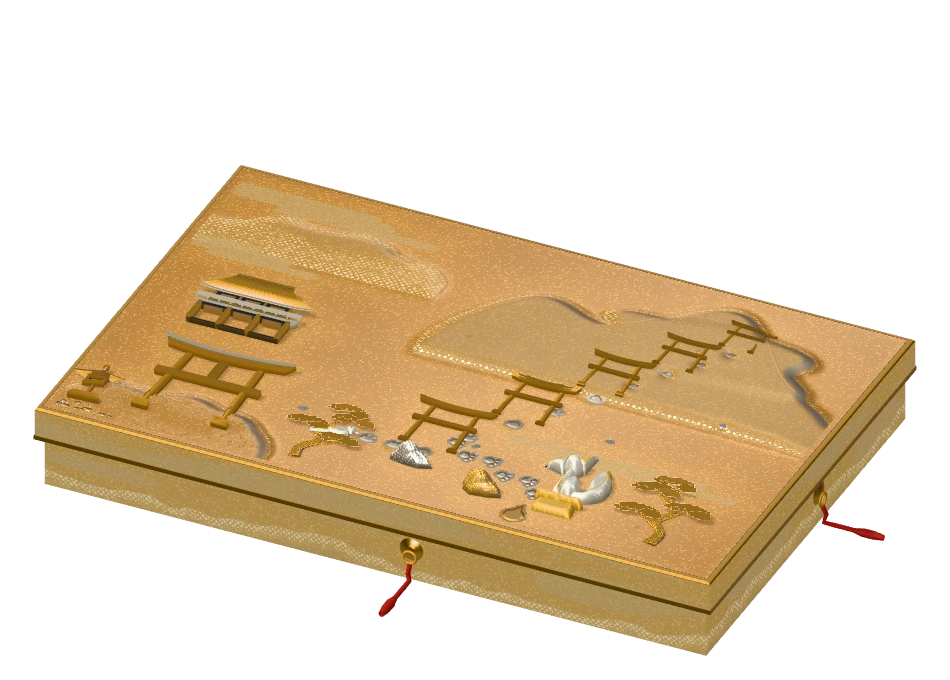
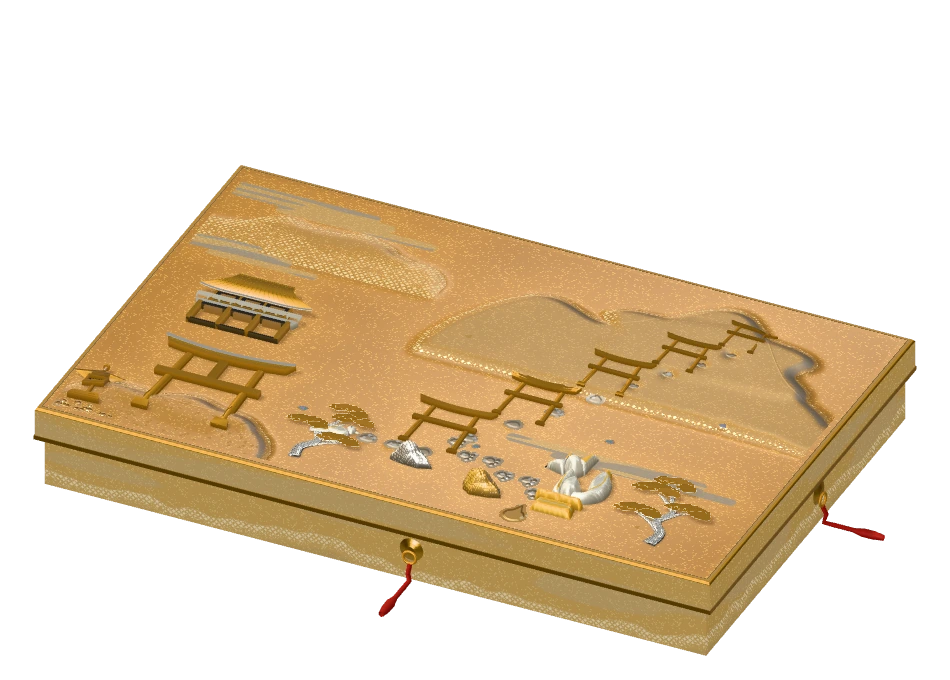
feat(plate): silver wood under gold foliage, silver strips in the mist
Compared with the Tokugawa Art Museum photo of the Hatsune writing box:
grey silver carries the shade and separates one thing from the next.
- Trunks and limbs of gold-leaved trees are silver (oxidized in shade,
  pale where lit, cut silver on top); the silver-flowering cherry keeps
  gold wood.
- Mist bands carry long thin strips of grey silver.
- Static fallback pictures reshot.

diff --git a/src/studies/toji/plate/three-renderer.js b/src/studies/toji/plate/three-renderer.js
@@ -207,7 +207,9 @@ roughnessFactor = mix(roughnessFactor, mix(K_KIRI_ROUGH, K_KIRI_ROUGH_NIGHT, uNi
     return material;
   };
   const patchLimbMaterial = (material, spec) => {
-    material.customProgramCacheKey = () => `kyoto-limb-${spec.glow ? 1 : 0}-kiri-v1`;
+    // Wood is silver where the foliage is gold (Hatsune); a tree that flowers in silver keeps gold wood.
+    const silver = spec.name === 'silver', foil = silver ? 'K_ROCK_FOIL_SILVER' : 'K_KIRI_GOLD';
+    material.customProgramCacheKey = () => `kyoto-limb-${spec.glow ? 1 : 0}-${silver ? 's' : 'g'}-kiri-v2`;
     material.onBeforeCompile = shader => {
       bindGlow(shader, spec);
       shader.vertexShader = shader.vertexShader
@@ -227,12 +229,12 @@ vec3 kyotoTrunkNW = inverseTransformDirection(normalize(vNormal), viewMatrix);
 float kyotoTrunkLit = smoothstep(K_TRUNK_LIT_LO, K_TRUNK_LIT_HI, dot(kyotoTrunkNW, normalize(uKey)));
 vec2 kyotoTrunkTilt;
 float kyotoTrunkKiri = kyotoKiriPattern(vTreeUv, K_TRUNK_KIRI_CELL, kyotoTrunkLit, uPx, kyotoTrunkTilt) * (1. - kyotoBark * K_TRUNK_BARK_MASK);
-diffuseColor.rgb = mix(diffuseColor.rgb, K_M_OXID * K_TRUNK_OXID_SCALE, (1. - kyotoTrunkLit) * K_TRUNK_OXID_STRENGTH);
+diffuseColor.rgb = ${silver ? 'mix(K_TRUNK_SILVER_SHADE, K_TRUNK_SILVER_LIT, kyotoTrunkLit)' : 'mix(diffuseColor.rgb, K_M_OXID * K_TRUNK_OXID_SCALE, (1. - kyotoTrunkLit) * K_TRUNK_OXID_STRENGTH)'};
 diffuseColor.rgb *= 1. - kyotoBark * .45;
-diffuseColor.rgb = mix(diffuseColor.rgb, K_KIRI_GOLD, kyotoTrunkKiri * K_TRUNK_KIRI_COVER);`)
+diffuseColor.rgb = mix(diffuseColor.rgb, ${foil}, kyotoTrunkKiri * K_TRUNK_KIRI_COVER);`)
         .replace('#include <roughnessmap_fragment>', `#include <roughnessmap_fragment>
 roughnessFactor = mix(roughnessFactor, .85, kyotoBark * .5);
-roughnessFactor = mix(roughnessFactor, K_OXID_ROUGH, (1. - kyotoTrunkLit) * (1. - kyotoTrunkKiri) * K_TRUNK_OXID_STRENGTH);
+roughnessFactor = mix(roughnessFactor, K_OXID_ROUGH, (1. - kyotoTrunkLit) * (1. - kyotoTrunkKiri) * ${silver ? '1.' : 'K_TRUNK_OXID_STRENGTH'});
 roughnessFactor = mix(roughnessFactor, mix(K_KIRI_ROUGH, K_KIRI_ROUGH_NIGHT, uNight), kyotoTrunkKiri);`)
         .replace('#include <normal_fragment_begin>', NORMAL_FIX)
         .replace('#include <normal_fragment_maps>', '#include <normal_fragment_maps>\nnormal = normalize(normal - kyotoGrain * .13 * vTreeTanX - cos(vTreeUv.y * .9) * .06 * vTreeTanZ);')
@@ -241,7 +243,7 @@ roughnessFactor = mix(roughnessFactor, mix(K_KIRI_ROUGH, K_KIRI_ROUGH_NIGHT, uNi
   vec3 kyotoTrunkN = inverseTransformDirection(normal, viewMatrix);
   float kyotoTrunkGlint = kyotoKiriGlint(kyotoTrunkN, kyotoTrunkTilt, kyotoTrunkKiri, normalize(uKey), normalize(uView), uNight);
   reflectedLight.directSpecular *= mix(vec3(1.), K_KIRI_NIGHT_SPEC_TINT, uNight * kyotoTrunkKiri);
-  reflectedLight.directSpecular += K_KIRI_GOLD * kyotoTrunkGlint;
+  reflectedLight.directSpecular += ${foil} * kyotoTrunkGlint;
 }`)
         .replace('#include <emissivemap_fragment>', '#include <emissivemap_fragment>\ntotalEmissiveRadiance *= uGlowBase + vGlow * uGlowGain;');
     };

diff --git a/src/studies/toji/plate/three-pack.js b/src/studies/toji/plate/three-pack.js
@@ -284,8 +284,10 @@ const vec3 K_ROCK_BODY_SHADE=vec3(.27,.27,.26); // the ground where the rock tur
 const vec3 K_ROCK_BODY_SILVER=vec3(.40,.41,.41); // the ground of a silver rock, lit
 const vec3 K_ROCK_FOIL_SILVER=vec3(.90,.91,.88); // kirigin foil on the lit face
 const vec3 K_ROCK_FOIL_OXID=vec3(.60,.60,.57); // foil where it turns from the light: oxidized silver
-const float K_TRUNK_OXID_SCALE=.76; // oxidized silver brightness on shaded tree trunks relative to K_M_OXID
-const float K_TRUNK_OXID_STRENGTH=.4; // blend weight toward oxidized silver on shaded trunk faces
+const float K_TRUNK_OXID_SCALE=.76; // oxidized silver brightness on shaded gold trunks relative to K_M_OXID
+const float K_TRUNK_OXID_STRENGTH=.4; // blend weight toward oxidized silver on shaded gold trunk faces
+const vec3 K_TRUNK_SILVER_SHADE=vec3(.34,.34,.33); // a trunk's shaded side: oxidized silver
+const vec3 K_TRUNK_SILVER_LIT=vec3(.74,.75,.73); // a trunk's lit side: silver, a little greyer than the foil on it
 const float K_TRUNK_BARK_MASK=.55; // suppress kirikane pieces inside deep bark seams so grain stays readable
 const float K_ROCK_LIT_LO=-.35; // rock N.L threshold where shaded M_OXID begins transitioning to gold
 const float K_ROCK_LIT_HI=.30; // rock N.L threshold where lit gold reaches full strength
@@ -746,5 +748,8 @@ void main(){
   mWake=0.;mSh=1.;mSetLight(normalize(vKyotoNormal),vKyotoWorld);
   // Suyari-gasumi in the Hatsune lids is dense, bright gold (濃梨子地 into flat gold), clearly richer than the ground.
   vec3 c=.5*mNashiji(vKyotoUv,1.6,mix(M_GOLD,M_PALE,.5))+.5*mMetal(vKyotoUv,M_PALE*.95,1.)+.25*mSheet(M_PALE);
+  // Long thin strips of grey silver lie in the gold (the Hatsune mist bands alternate the two metals).
+  float sv=smoothstep(.50,.60,mVnoise(vec2(vKyotoUv.x*.012,vKyotoUv.y*.19)+vPartId*3.7));
+  c=mix(c,mMetal(vKyotoUv,M_OXID,1.)*.9+.2*mSheet(M_SILVER),sv*.9);
   fragColor=mFinish(c,alpha);
 }`;

diff --git a/src/studies/toji/plate/trees.js b/src/studies/toji/plate/trees.js
@@ -20,7 +20,7 @@ export function stampedTree(id, x, z, h, lean, seed, species) {
     anchor: [x,z], reach: 1, thick: 0, bias: 0, fills: [], lines: [], limbs: [], stamps: [], species};
   const r = rand(seed), dir = Math.sign(lean) || 1;
   const at = (dx, up) => [x + lean * up + dx * h, z - up * h];
-  const limb = (pts, radii) => { const points = curve(pts, radii); p.limbs.push({points, bark: species === 'pine' ? 1 : 0}); };
+  const limb = (pts, radii) => { const points = curve(pts, radii); p.limbs.push({points, bark: species === 'pine' ? 1 : 0, mat: species === 'cherry' ? MAT.gold : MAT.silver}); };
   const stamp = (cell, px, pz, w, hh, turn, mat) => p.stamps.push({cell,x:px,z:pz,w,h:hh,turn,mat,offset:4.8+p.stamps.length*.035,relief:species==='pine'?.42:.24});
   if (species === 'pine') {
     const spine = [at(0,0),at(-dir*.045,.18),at(dir*.04,.35),at(-dir*.055,.55),at(dir*.025,.75),at(0,.93)];

diff --git a/docs/HANDOFF.md b/docs/HANDOFF.md
@@ -6,8 +6,8 @@
 
 | 項目 | 狀態 |
 |---|---|
-| 主線 | `main` 與 `origin/main` 在 `4ed80e3`（2026-11-15）：three.js 蒔繪盤為預設、T3 材質、黑漆壁真塗都已上線。實際 HEAD 以 `git log -1 main` 為準 |
-| 工作分支 | `claude/roadmap-1116`（2026-11-16 從 `main` 開）：開案書 R0–R10 的全部成果都在這裡，**尚未合併 `main`、尚未 push**（各自需要使用者同意；push `main` 會觸發部署）。總表見 [`agent-runs/2026-11-16-overnight-chain.md`](agent-runs/2026-11-16-overnight-chain.md) |
+| 主線 | `main` 與 `origin/main` 在 `6fd2099`（2026-11-16，使用者同意合併與 push，部署成功）：開案書 R0–R10 全部上線。實際 HEAD 以 `git log -1 main` 為準 |
+| 工作分支 | `claude/silver-1116`（從 `main` 開）：銀的補強（樹幹改銀、霞帶裡的銀條）。**尚未合併 `main`、尚未 push**。長鏈總表見 [`agent-runs/2026-11-16-overnight-chain.md`](agent-runs/2026-11-16-overnight-chain.md) |
 | 本機分支清理 | 2026-11-16 刪除已併入 `main` 的本機 `claude/great-brahmagupta-ye2uqt`、`claude/threert-reference`（刪前確認 `git log main..<branch>` 為 0） |
 | 遠端分支 | 2026-11-16 刪除已併入 `main` 的 `origin/claude/great-brahmagupta-ye2uqt`、`origin/claude/amazing-cerf-cuoj8j`（使用者同意）。遠端只剩 `main` |
 | 子代理工作樹 | 放在 `C:\Git\_wt_kyoto_<topic>`（`git worktree add`），由主代理建立與刪除。本輪用過的兩個已移除；目前有哪些以 `git worktree list` 為準 |
@@ -31,7 +31,7 @@ npm run dev -- --host 127.0.0.1 --strictPort
 |---|---|
 | 資料 | **792 筆**，`validate_data.js --strict` ERROR 0／WARN 0。2026-11-16 查完十一區所有食處（Tabelog）與「世界遺產」「國寶」標籤：退役 17 筆、改區 27 筆。「營業中」的依據是 Tabelog 英文版沒有閉店類標示，不是現場確認。寺社、商店等其他類型的事實查核還沒做 |
 | 首頁文庫 | 十一區文箱，每區一面蒔繪盤；單指盒面移光，長拖換函，雙指捏合／滾輪／快捷鍵放大（上限 3 倍），點蓋／Enter／空白鍵開蓋直入 `DetailView`；月光預設、閒置移光 |
-| 蒔繪盤 | **只有 three.js 一條管線**（`plate/three-renderer.js`＋`three-pack.js`）。舊的自寫 WebGL2 管線、2.5D 浮雕與 `?three=0` 已刪。狐、鳳凰、鶯、銀沙灘與向月台、石垣都是 three 網格，沒有平塗佔位。岩面是菱形切金（受光大而密、背光小而疏），銀岩是銀。地有疏密場（靠近物較密）。九區有依附小景（`plate/<區>.js` 裡帶 `on` 欄位的部件） |
+| 蒔繪盤 | **只有 three.js 一條管線**（`plate/three-renderer.js`＋`three-pack.js`）。舊的自寫 WebGL2 管線、2.5D 浮雕與 `?three=0` 已刪。狐、鳳凰、鶯、銀沙灘與向月台、石垣都是 three 網格，沒有平塗佔位。岩面是菱形切金（受光大而密、背光小而疏），銀岩是銀。地有疏密場（靠近物較密）。九區有依附小景（`plate/<區>.js` 裡帶 `on` 欄位的部件）。**銀的分工**（2026-11-16 對照德川美術館「初音蒔絵文台・硯箱（部分）」照片）：葉是金的樹，幹與枝是銀（背光氧化銀灰、受光淡銀、上面是切銀）；開銀花的櫻保留金幹；霞帶的金裡躺著細長的灰銀條 |
 | 降級 | 沒有 WebGL2、three 載入或啟動失敗、context 遺失、或網址加 `?plate=static` 時，顯示預渲染的靜態圖（`plate/static/` 22 張 webp，十一區 × 日夜），換函與開蓋照常，盒面不動。**盤面有改動就要重拍**：`node scripts/plate-fallback-shots.mjs`（dev server 在 3000） |
 | 全站 UI | 手機優先、深色預設；暖日／月光、語系、減少動態全站共用（色票唯一來源 `src/theme.css`）。卡片有傾斜與柔光（觸控只有按壓回饋）、篩選後新卡片淡入；30 張以上的列表分批渲染（`src/lib/batch-render.ts`） |
 | 背景 | すやり霞＋和紙＋金箔／銀塵、障子格光與卓面光澤（`backdrop.js`）；十一區各自的紋樣與一行短句（`ward-art.js`，2026-11-16 改寫為「地標＋該區另一個重點」） |
